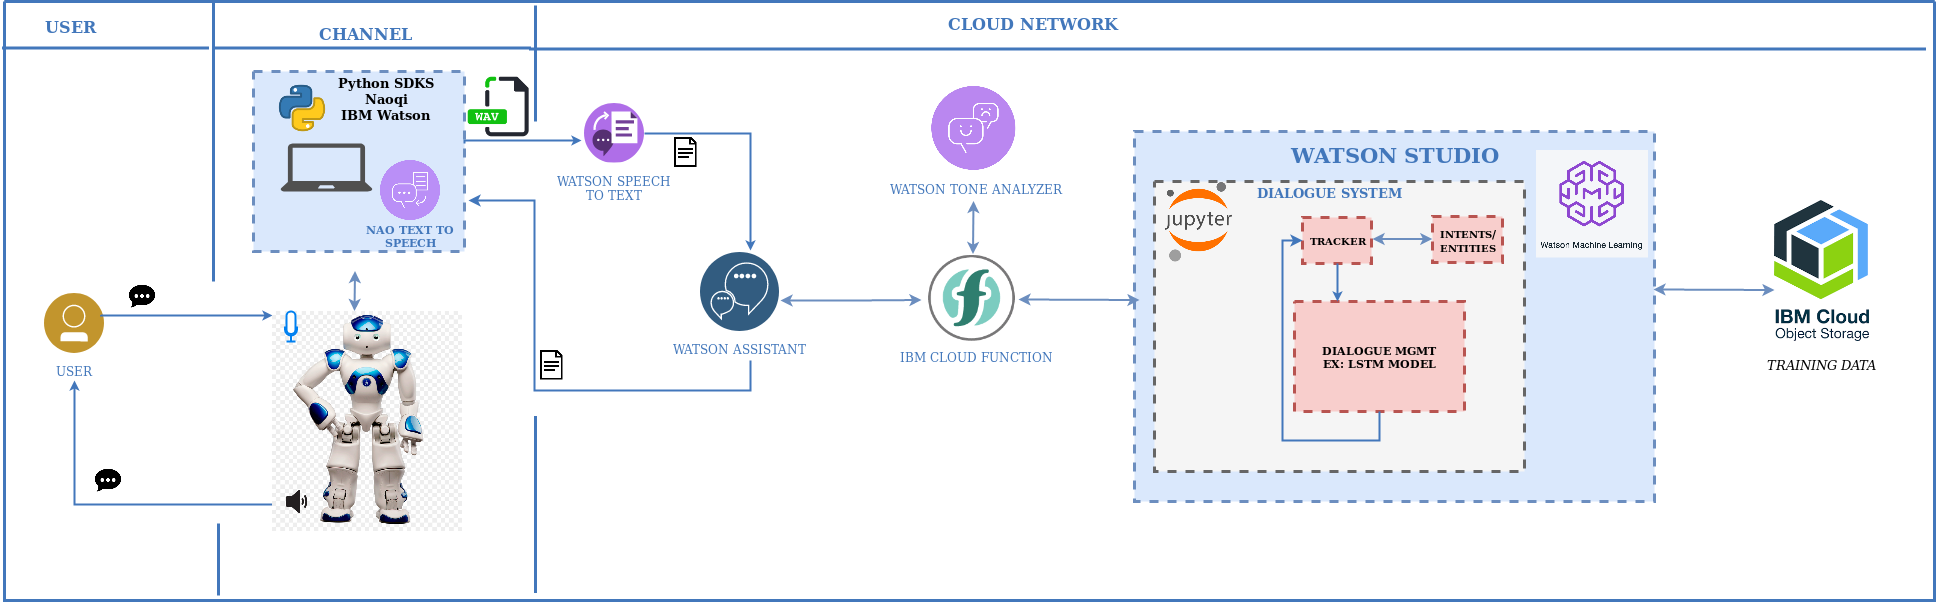
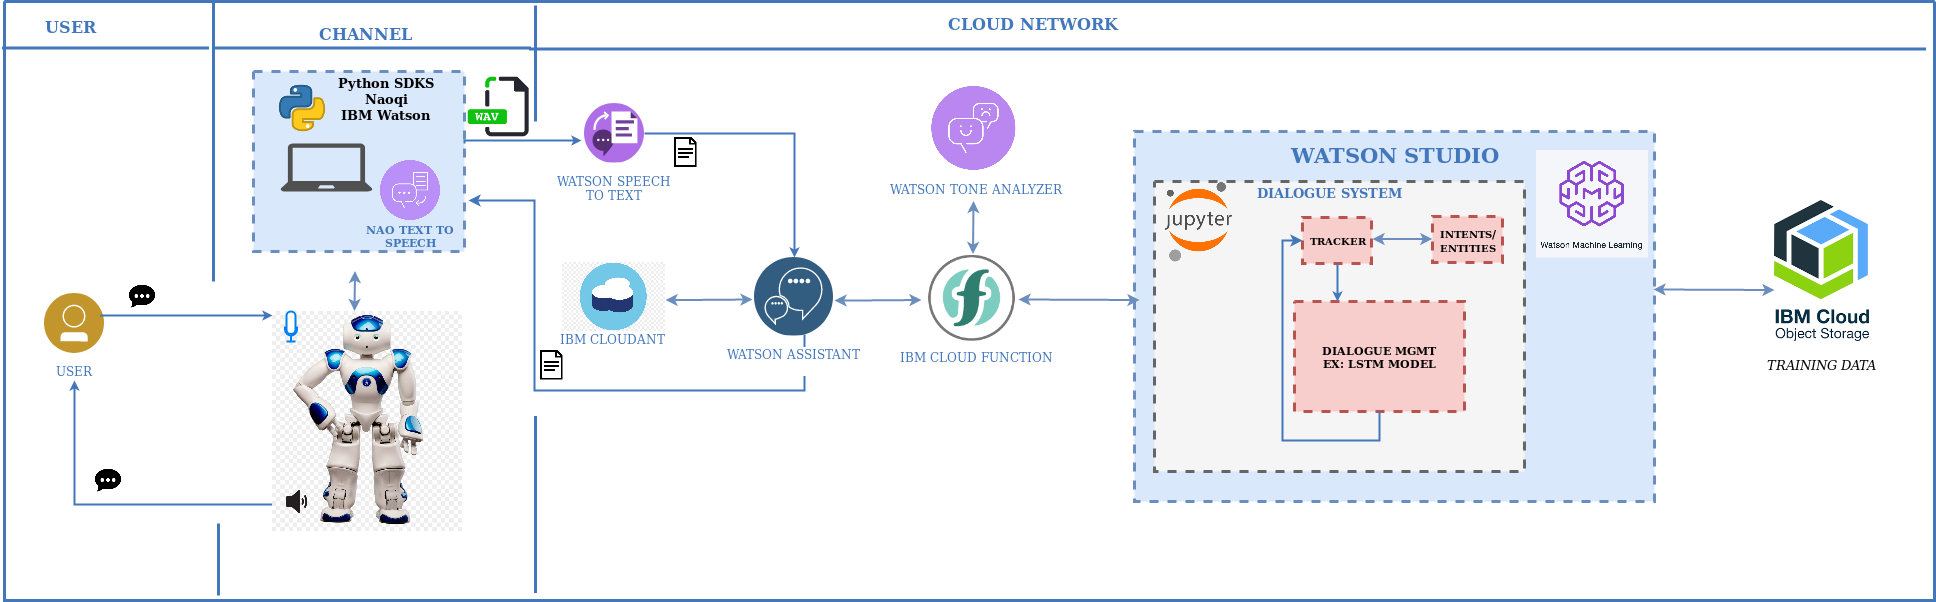
added text in README explaining updated flow

Changed region(s): [[0.2789, 0.4186, 0.4339, 0.598], [0.3719, 0.6279, 0.4339, 0.6578], [0.3719, 0.2093, 0.4029, 0.2392]]

diff --git a/README.md b/README.md
@@ -14,11 +14,18 @@ This is the final project of the Northwestern MSR project. This project is an ex
  ## General Flow
 
 1. User speaks to NAO.
-2. A client python application connected to NAO converts the speech to text and sends the text to the Watson Assistant API. 
-3. The Watson Assistant API takes the text input, analyzed for intents (purposes of user inputs), and builds a dialogue that determines the responses NAO will give.
-4. The Watson Assistant API sends the textual responses back to the client Python application.
-5. The client Python application converts the text to speech.
-6. Nao speaks response to user. 
+2. A client python application extracts speech in form of a .wav file. 
+3. Python application sends the .wav file to Watson Speech to Text Service.
+4. Watson Speech to Text converts the speech to text.
+5. Watson Assistant analyzes makes a call to the Watson Tone Analyzer via IBM Cloud function
+6. Watson Tone Analyzer analyzes the tone and returns tone back to Watson Assistant via IBM Cloud Function. 
+7. The tone is saved as a context variable and stored in the IBM Cloudant JSON database for tracking the flow of the dialogue. 
+8. Watson Assistant makes an additional function call to Watson Studio to retrieve intelligent response generated via trained machine learning model. 
+9. Watson Studio sends back the response back to Watson Assistant via IBM Cloud Function. 
+10. The Watson Assistant API sends the textual response back to the client Python application.
+11. The client Python application converts the text to speech via Nao's Text to Speech function. 
+12. Nao speaks response to user. 
+**NOTE**: Conversation ends based on the state of the emotional tone (saved in the Cloudant DB). If For instance, a transition from a sad state to a happy state will trigger an end to the conversation. This is all managed in the dialogue nodes of Watson Assistant. The node flow is primarily driven by contextual variables representing emotional tone. Intents and Entities will be managed via Python Neural Network code in the Jupyter Notebook. 
 
 ## Included components
 
